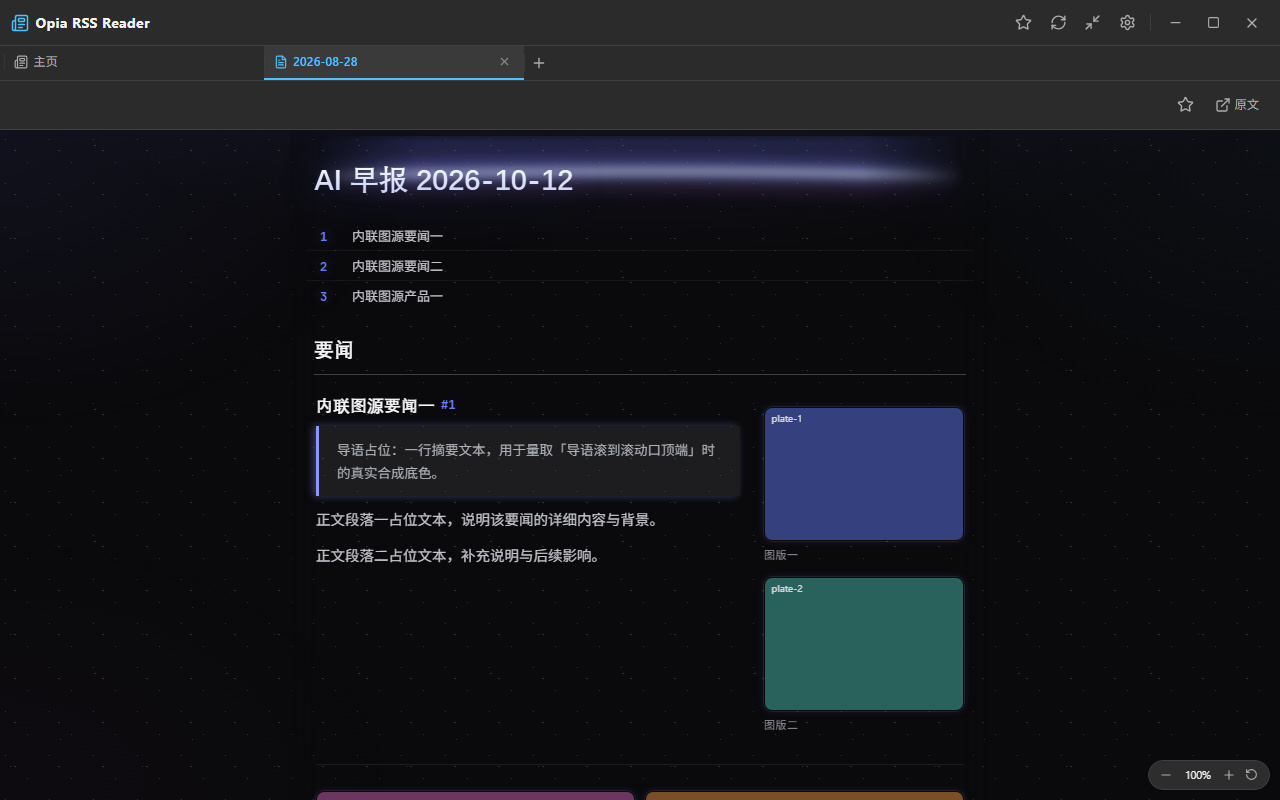
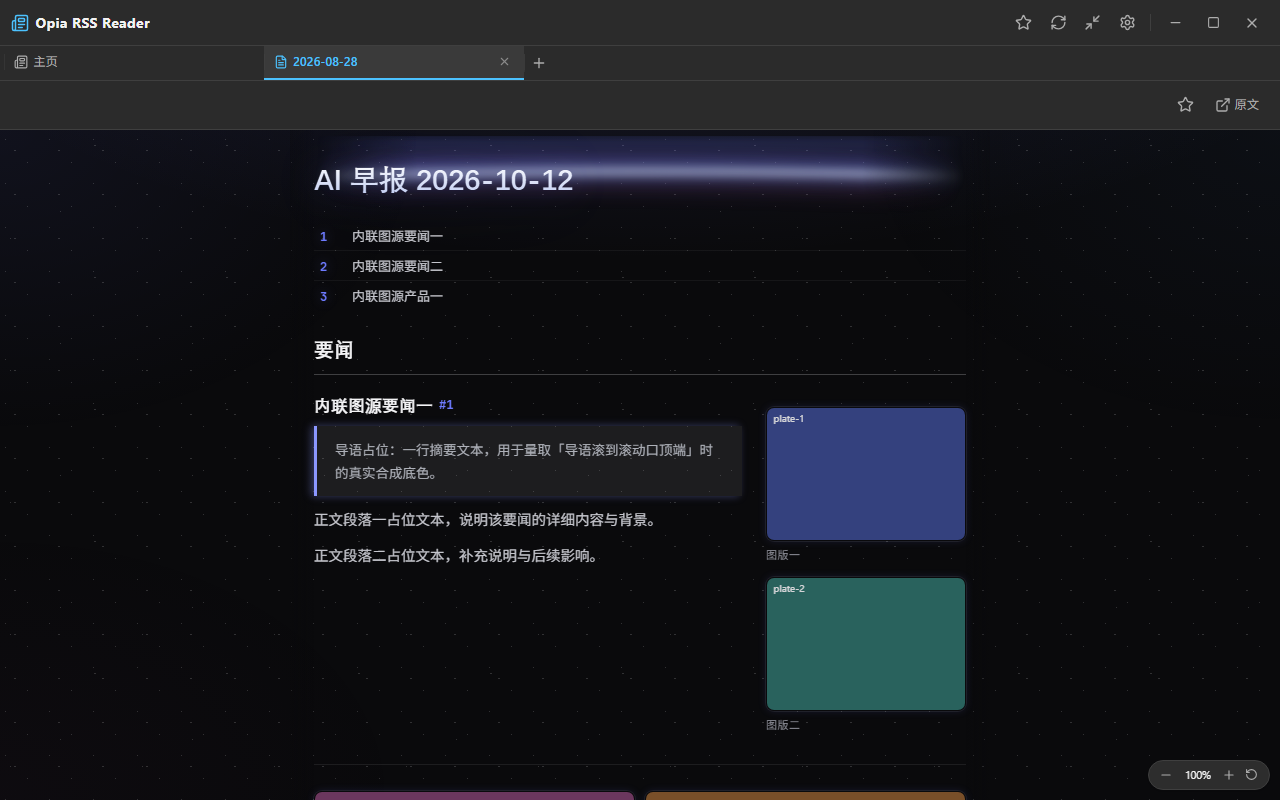
fix(nocturne): T5 右边缘三处对齐到内容栏边界（#16）
- 概览新增自定义记号 `--jy-ov-bleed: 8px`，统一驱动 li 负外边距、li 内衬、
  `li + li::after` 的 left/right 三处（改一处不再漂移）。分隔线由外凸 8px 内缩回
  内容栏边界；hover 底色仍外溢 8px（交互反馈需要比文字列宽一点）。窄窗 ≤520px 把
  同一记号收到 0，沿用既有窄窗退化语义，不贴屏边。
- 暗侧作用域内 `.juya-entry` 水平内衬 2px → 0。该内衬与 border-bottom 同批写下
  （3e8b9e9），已查证不承载 hover（暗侧 hover 走 border-bottom-color、border-radius
  已置 0），无功能用途。文本列横向变宽 4px（左右各 2px）；亮侧与共享规则一字未改。
- 新增第 4 条测试接缝 `tests/e2e/nocturne-geometry.spec.ts`：3 用例 / 18 条 expect，
  在真实渲染下用相对值断言 plate、概览分隔线、栏目 h2 横线的左右缘差 ≤1px，
  跨 560 / 800 / 1320 三视口；不并入 reader.spec，不用绝对坐标。
- 新增 `juyaCssGuard` 记号守卫 4 项（单一记号驱动三处、暗侧内衬置 0、窄窗退化、
  分隔线内缩方向与 hover 外溢形态）。
- `reader.spec` 中 T4 的 2px 容差注释随内衬置 0 更新（断言仍保留 ≤2，未放宽/未收紧）。

三视口实测偏差（改前 → 改后，plate 右缘 / 分隔线右缘，相对 h2 横线）：
  560 ：-2.00px / +8.00px → 0.00px / 0.00px
  800 ：-2.00px / +8.00px → 0.00px / 0.00px
  1320：-2.00px / +8.00px → 0.00px / 0.00px
  左缘同式（560 单列图、回流带首图、分隔线左缘均 0.00px）。

167px 空洞断言处理：**未受影响，未改任何数字**。实测 hole=167.14px，仍落在既有
区间闸门 0 < hole < 300 内；4px 文本列变化未改变该夹具的换行行数。

反向验证：还原旧规则（去掉记号 / 恢复 2px 内衬）后，几何 spec 3/3 用例转红
（实测偏差回到 -2.00px / +8.00px），记号守卫 4/4 转红；恢复后全绿。

验证：`npx tsc --noEmit` 0 错误；`npx vitest run` 420/420；`npm run build:dir` +
`npx playwright test` 96/96（含新 spec 三视口）；`node scripts/nocturne-contrast-audit.mjs`
exit 0；`node scripts/nocturne-visual-walkthrough.mjs` 重生 → `--verify` exit 0。
归档变更 4 张（阅读页 3 张 + RM 1 张；订阅页逐字节不变）；悬停态截图另存
`screenshots/nocturne-t5-hover-1280.png`（本目录 gitignore，不随提交）。

diff --git a/tests/e2e/nocturne-geometry.spec.ts b/tests/e2e/nocturne-geometry.spec.ts
@@ -1,0 +1,111 @@
+import { test, expect } from '@playwright/test'
+import { loadApp, openFirstArticle, activeTab } from './setup'
+
+/** nocturne-dark 右边缘几何（2026-10-20，#16 / SPEC 批次 B2b）。
+ *
+ *  基准 = 栏目 h2 横线右缘（即正文文字右缘）；不用 issue 外缘 —— issue 外缘到内容栏之间是
+ *  容器内衬（`.juya-issue` 的 24px），不是设计边界。
+ *
+ *  三处必须收在同一内容栏边界上：
+ *    ① 栏目 h2 发丝线（基准）；
+ *    ② 概览条目分隔线（`li + li::after`，绝对定位的伪元素）；
+ *    ③ 阅读页图片：宽屏右列图版 + 窄窗单列图 + 通栏回流带。
+ *
+ *  断言一律用**相对值**（两个元素边缘的差值），不锁绝对坐标 —— 绝对坐标随视口、滚动条宽度、
+ *  zoom、字体度量漂移；差值才是「同一条边界」这个设计意图本身。
+ *  覆盖 560（窄窗）/ 800（常规）/ 1320（宽屏）三视口。
+ *
+ *  分隔线的量法：绝对定位伪元素的客户区矩形不能直接 `getBoundingClientRect`，但 `left`/`right`
+ *  的 CSSOM resolved value 对定位元素是**使用值**（px），故 `li` 的 padding-box 右缘 − right 内缩
+ *  = 分隔线右缘。containing block 是 li 的 padding box，而 li 无边框 ⇒ padding-box 边缘 == li
+ *  边框盒边缘。这样量到的仍是真实布局结果，不是把 CSS 声明抄一遍当断言。 */
+
+const VIEWPORTS = [560, 800, 1320] as const
+
+type Box = { left: number; right: number; width: number }
+
+for (const width of VIEWPORTS) {
+  test(`nocturne 右边缘三处对齐内容栏边界（${width} 视口）`, async ({ page }) => {
+    await page.setViewportSize({ width, height: 800 })
+    await loadApp(page, 'nocturneSvg')
+    await openFirstArticle(page)
+
+    const root = activeTab(page).locator('.juya-root')
+    await expect(root).toBeVisible()
+
+    const geo = await root.evaluate((el) => {
+      const box = (n: Element | null): Box | null => {
+        if (!n) return null
+        const r = n.getBoundingClientRect()
+        return { left: r.left, right: r.right, width: r.width }
+      }
+      const h2 = el.querySelector('.juya-section > h2')
+      const plateImg = el.querySelector('.juya-entry-figure img')
+      const overflowImgs = [...el.querySelectorAll('.jynoct-overflow-media img')]
+      const lis = [...el.querySelectorAll('.juya-overview li')]
+      const sepLi = lis[1] ?? null
+      const sep = sepLi ? getComputedStyle(sepLi, '::after') : null
+      const liBox = box(sepLi)
+      // 分隔线左右内缩的**使用值**（定位元素的 CSSOM resolved value 为 px）
+      const insetLeft = sep ? Number.parseFloat(sep.left) : Number.NaN
+      const insetRight = sep ? Number.parseFloat(sep.right) : Number.NaN
+      return {
+        h2: box(h2),
+        h2BorderBottom: h2 ? getComputedStyle(h2).borderBottomWidth : '',
+        plate: box(plateImg),
+        overflowFirst: box(overflowImgs[0] ?? null),
+        overflowLast: box(overflowImgs.at(-1) ?? null),
+        overflowCount: overflowImgs.length,
+        sepLi: liBox,
+        sepInsetLeft: insetLeft,
+        sepInsetRight: insetRight,
+        // 分隔线的真实边缘 = li padding-box 边缘 ∓ 内缩量
+        sepLeft: liBox && Number.isFinite(insetLeft) ? liBox.left + insetLeft : Number.NaN,
+        sepRight: liBox && Number.isFinite(insetRight) ? liBox.right - insetRight : Number.NaN
+      }
+    })
+
+    // 基准本身必须存在：栏目线是 1px 实线，否则「对齐基准」无从谈起
+    expect(geo.h2, '栏目 h2 应可取到').toBeTruthy()
+    expect(geo.h2BorderBottom, '栏目 h2 应有 1px 发丝线（对齐基准）').toBe('1px')
+    expect(geo.h2!.width, '内容栏应有非零宽度').toBeGreaterThan(100)
+    expect(Number.isFinite(geo.sepLeft), '分隔线左内缩应为可用值').toBe(true)
+    expect(Number.isFinite(geo.sepRight), '分隔线右内缩应为可用值').toBe(true)
+
+    // eslint-disable-next-line no-console
+    console.log(
+      `[T5 ${width} 实测] h2=[${geo.h2!.left.toFixed(2)}, ${geo.h2!.right.toFixed(2)}] ` +
+        `plate=[${geo.plate?.left.toFixed(2)}, ${geo.plate?.right.toFixed(2)}] ` +
+        `sep=[${geo.sepLeft.toFixed(2)}, ${geo.sepRight.toFixed(2)}] ` +
+        `overflowLast=[${geo.overflowLast?.left.toFixed(2) ?? 'n/a'}, ${geo.overflowLast?.right.toFixed(2) ?? 'n/a'}] ` +
+        `偏差(plate/sep 右)=${(geo.plate!.right - geo.h2!.right).toFixed(2)}/${(geo.sepRight - geo.h2!.right).toFixed(2)}`
+    )
+
+    // ① 概览分隔线 == 栏目线（左右缘同式）
+    expect(Math.abs(geo.sepLeft - geo.h2!.left), `概览分隔线左缘应贴内容栏左边界`).toBeLessThanOrEqual(1)
+    expect(Math.abs(geo.sepRight - geo.h2!.right), `概览分隔线右缘应贴内容栏右边界`).toBeLessThanOrEqual(1)
+
+    // ② 图片（右列图版）右缘 == 栏目线右缘。宽屏右列是 200px 图列（左缘是正文/图列分界，
+    // 不是内容栏边界），故左缘只在 ≤640px 单列回落、图铺满内容列时才成立 —— 条件断言，不硬套。
+    expect(geo.plate, '首条应有右列图版').toBeTruthy()
+    expect(Math.abs(geo.plate!.right - geo.h2!.right), '右列图版右缘应贴内容栏右边界').toBeLessThanOrEqual(1)
+    if (width <= 640) {
+      expect(Math.abs(geo.plate!.left - geo.h2!.left), '窄窗单列图左缘应贴内容栏左边界').toBeLessThanOrEqual(1)
+    }
+
+    // ③ 通栏回流带（含窄窗单列回流图）：首图左缘 + 末图右缘 == 栏目线
+    expect(geo.overflowCount, '首条应有回流图（2 张）').toBe(2)
+    expect(geo.overflowFirst, '回流带首图应可取到').toBeTruthy()
+    expect(geo.overflowLast, '回流带末图应可取到').toBeTruthy()
+    expect(Math.abs(geo.overflowFirst!.left - geo.h2!.left), '回流带左缘应贴内容栏左边界').toBeLessThanOrEqual(1)
+    expect(Math.abs(geo.overflowLast!.right - geo.h2!.right), '回流带右缘应贴内容栏右边界').toBeLessThanOrEqual(1)
+
+    // ④ 悬停底色仍允许外溢：li 自身（hover 背景盒）必须比内容栏宽 —— 这是交互反馈，不是漂移。
+    // 「底色比线宽」的形态由此结构保证：li 盒 = 内容栏 ± 同一记号，而分隔线已内缩回内容栏。
+    expect(geo.sepLi, '概览条目 li 应可取到').toBeTruthy()
+    expect(
+      geo.sepLi!.width - geo.h2!.width,
+      'hover 背景盒应比内容栏宽（底色外溢、分隔线内缩）'
+    ).toBeGreaterThan(4)
+  })
+}

diff --git a/src/renderer/juya/juya.css b/src/renderer/juya/juya.css
@@ -2166,6 +2166,19 @@
   padding: 4px 2px 18px;
 }
 
+/* ---- 条目水平内衬在暗侧置 0（2026-10-20，#16 / SPEC 批次 B2b）----
+   那 2px 水平内衬与上方 `border-bottom` 同批写下（`3e8b9e9`），**不承载任何 hover 效果**：
+   暗侧 hover 已改为 `border-bottom-color` 提亮（见下条），`border-radius` 在暗侧被置 0，
+   故水平内衬没有功能用途，只是让正文文字右缘比栏目 h2 线内缩 2px。
+   **为什么置 0**：票面基准是栏目 h2 横线右缘（= 正文文字右缘）；图片（右列图版 / 回流带）
+   与概览分隔线都对齐到该边界，条目内衬若留 2px，图片右缘就会比基准内缩 2px（三视口实测一致）。
+   收 0 后文本列横向变宽 4px（左右各 2px），换行位置可能变化、归档须重生 —— 已按票面记录。
+   作用域写成变体专属复合形态（AGENTS「变体覆盖选择器约定」）：需求 §9 明确 nocturne-light
+   不做任何改动，故共享那条 `4px 2px 18px` 一字未动，仅暗侧覆写。 */
+[data-juya-variant='nocturne-dark'].jynoct .juya-entry {
+  padding: 4px 0 18px;
+}
+
 .jynoct .juya-entry:hover {
   background: var(--jy-lead-bg);
   border-radius: 8px;
@@ -2490,13 +2503,28 @@
   filter: drop-shadow(0 0 6px rgba(110, 123, 255, 0.32));
 }
 
+/* ---- 右边缘对齐记号（2026-10-20，#16 / SPEC 批次 B2b）----
+   **病根**：概览条目的 li 用 `margin: 0 -8px` 抵消 `padding: 2px 8px`，行宽不变，但绝对定位的
+   分隔线 `li + li::after { left: 0; right: 0 }` 贴的是 **li 的 padding box** —— 于是线随负外边距
+   一起向外凸出 8px，比栏目 h2 横线（正文文字右缘）多出 10px；图片右缘又因条目 2px 内衬内缩 2px。
+   三处边界各走各的，跨 560/800/1320 三视口偏移量完全一致（结构性固定偏移，不是渲染抖动）。
+   **修法**：把这个「外扩量」抽成一个自定义记号，同时驱动三处 ——
+     li 内衬 = +记号（hover 底色/呼吸空间仍外溢）
+     li 负外边距 = -记号（行宽不变，不产生横向溢出）
+     分隔线左右内缩 = 记号（线回到内容栏边界）
+   改一处不会漂移。窄窗（≤520px）把记号本身收到 0 即可复用既有退化语义（见该断点）。
+   作用域是变体专属复合形态（AGENTS「变体覆盖选择器约定」），亮侧取值不受影响。 */
+[data-juya-variant='nocturne-dark'].jynoct .juya-overview {
+  --jy-ov-bleed: 8px;
+}
+
 /* 概览条目行：加行内衬（hover 底色/发丝线才有呼吸感，不让高亮块贴着字边），
-   并作下面绝对定位发丝线的定位上下文。横向用等量负外边距抵消内衬，
+   并作下面绝对定位发丝线的定位上下文。横向用**同一记号**的等量负外边距抵消内衬，
    行宽不变 → 不产生横向溢出（480px 视口的 scrollWidth 红线不受影响）。 */
 [data-juya-variant='nocturne-dark'].jynoct .juya-overview li {
   position: relative;
-  padding: 2px 8px;
-  margin: 0 -8px;
+  padding: 2px var(--jy-ov-bleed);
+  margin: 0 calc(-1 * var(--jy-ov-bleed));
   border-radius: 6px;
   /* 行高约 23px，半径比条目 hover 的 8px 更收，避免小行读成胶囊 */
 }
@@ -2509,12 +2537,14 @@
    线色 rgba(255,255,255,0.05)：取色来源 = 本变体 --jy-border rgba(255,255,255,0.08) 的**更弱一档**
    —— 需求要「极淡」，且 #6 已把栏目线单独提到 0.22 做非文本 UI 的 3:1，概览条目线刻意更低，
    两张票的线值不互相打架。合成到 #18192a 上为 #242535，WCAG 对比度 1.15:1：装饰性分隔线、
-   不承载信息、不适用 3:1 门槛（同 dust 的处理口径）。 */
+   不承载信息、不适用 3:1 门槛（同 dust 的处理口径）。
+   **左右内缩（#16）**：线贴的是 li 的 padding box，若 left/right 取 0 会随负外边距外凸 8px；
+   改取同一个 `--jy-ov-bleed` ⇒ 线与栏目 h2 横线（正文文字右缘）同一条内容栏边界。 */
 [data-juya-variant='nocturne-dark'].jynoct .juya-overview li + li::after {
   content: '';
   position: absolute;
-  left: 0;
-  right: 0;
+  left: var(--jy-ov-bleed);
+  right: var(--jy-ov-bleed);
   top: -3.5px;
   height: 1px;
   background: rgba(255, 255, 255, 0.05);
@@ -2537,6 +2567,12 @@
    窄窗那条微光的取色来源与 WCAG 对比度同 ① （accent #6e7bff / 4.90:1），只收半径与 alpha。
    与 #5 的阅读窗渐隐遮罩无叠加面（那只作用于正文列左右边缘，本区块在概览区）。 */
 @media (max-width: 520px) {
+  /* #16：窄窗退化 = 把同一个记号收到 0（内衬 / 负外边距 / 分隔线内缩三处同时归零），
+     仍保持「改一处不漂移」；下方 li 规则是既有退化取值，保留作双保险。 */
+  [data-juya-variant='nocturne-dark'].jynoct .juya-overview {
+    --jy-ov-bleed: 0px;
+  }
+
   [data-juya-variant='nocturne-dark'].jynoct .juya-overview li {
     padding: 2px 0;
     margin: 0;
